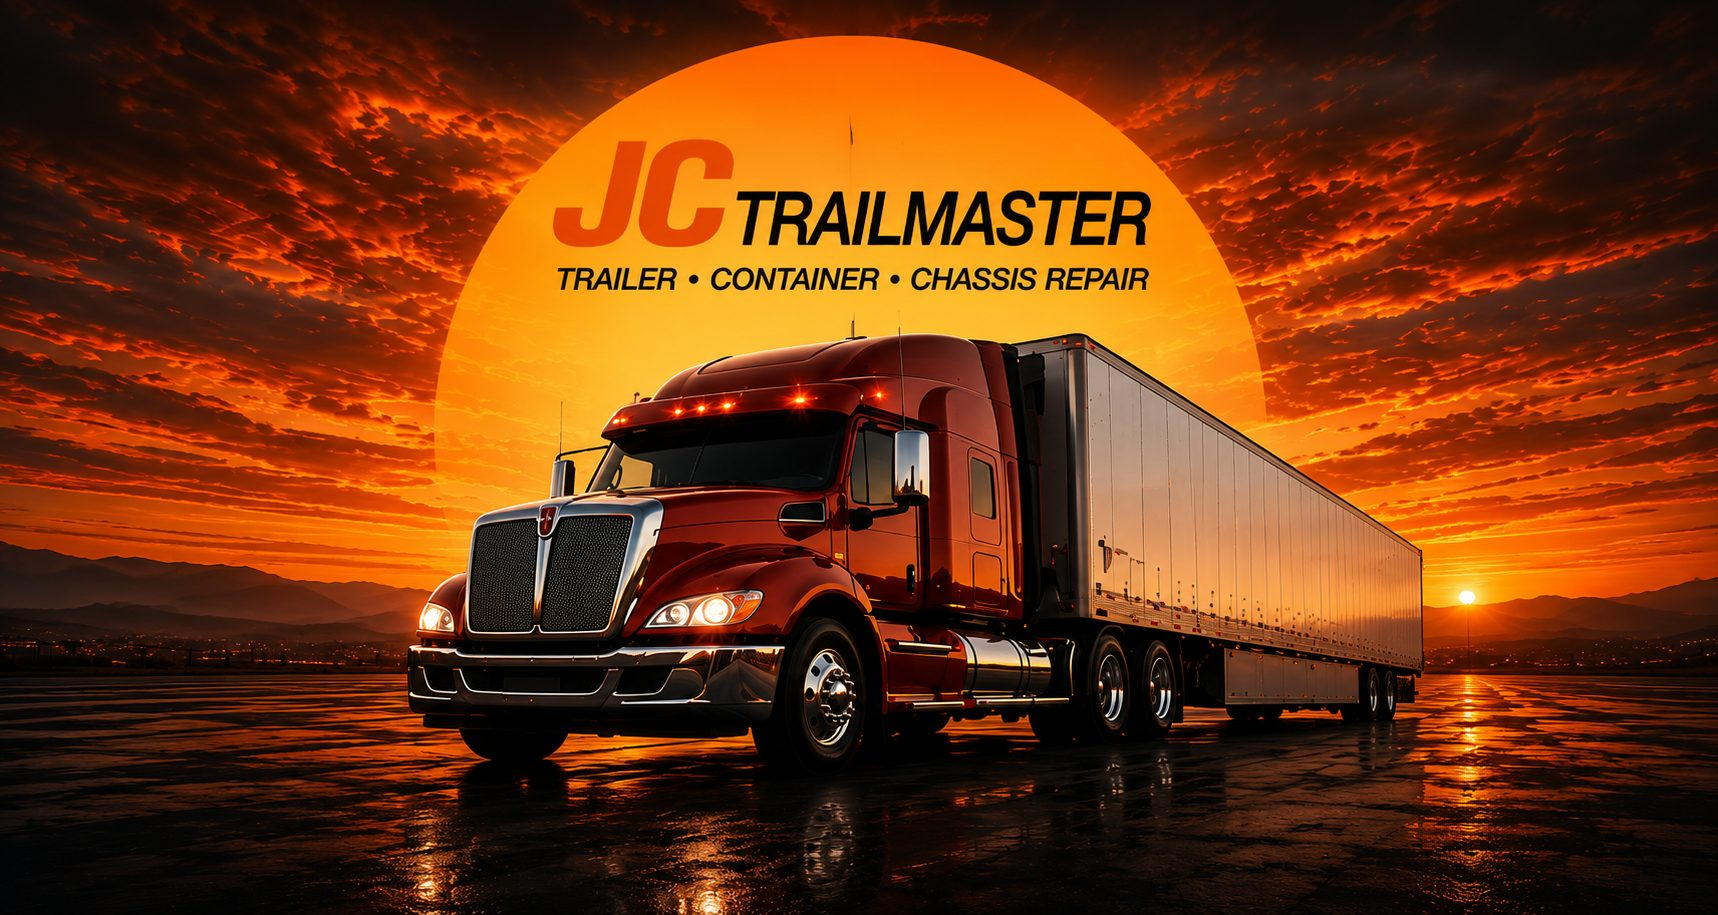
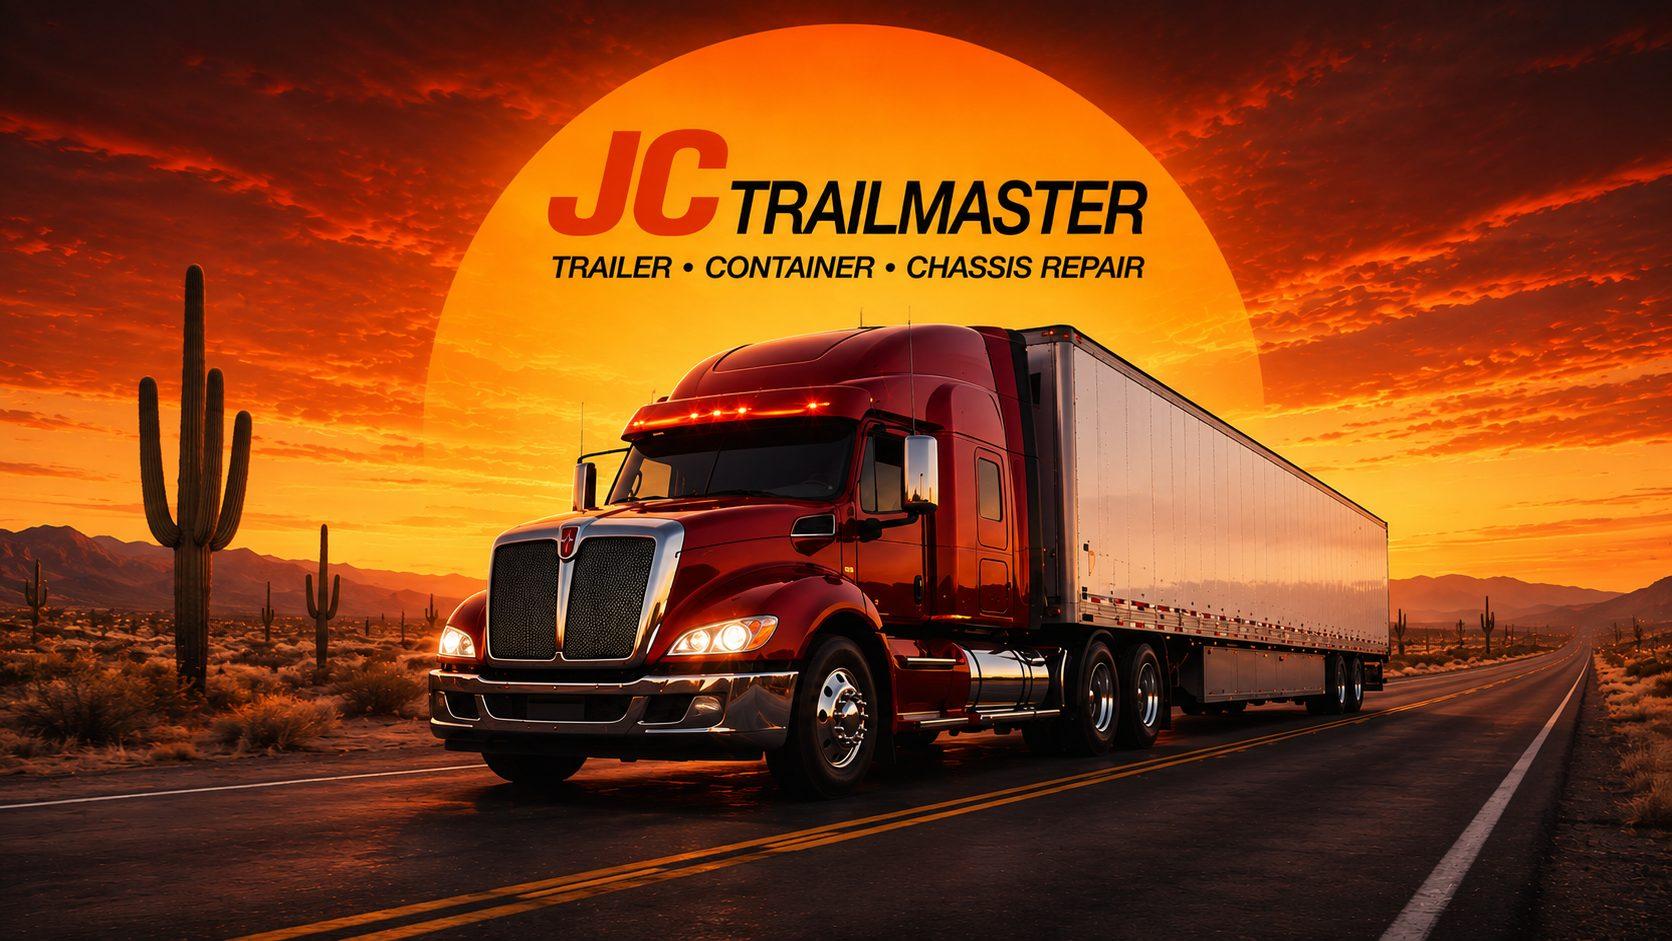
Update hero photo (desert highway scene) and bump badge JC size further
New hero: red Kenworth on a desert highway at sunset, JC Trailmaster
wordmark baked in -- replaces the previous shop-yard hero. Also increased
the badge JC font size again (24px->30px Header, 20px->24px Footer) per
feedback that it still read as too close in scale to TRAILMASTER; verified
both still fit inside their circles with no clipping.

diff --git a/src/components/Footer.jsx b/src/components/Footer.jsx
@@ -27,7 +27,7 @@ export default function Footer() {
         <div>
           <div className="flex items-center gap-2 mb-3">
             <span className="flex h-10 w-10 items-center justify-center rounded-full bg-jc-black">
-              <span className="font-brand italic text-jc-orange-deep text-xl leading-none">JC</span>
+              <span className="font-brand italic text-jc-orange-deep text-2xl leading-none">JC</span>
             </span>
             <span className="font-brand text-jc-orange-primary text-lg tracking-wide">
               TRAILMASTER

diff --git a/src/components/Header.jsx b/src/components/Header.jsx
@@ -19,7 +19,7 @@ export default function Header() {
       <div className="mx-auto flex max-w-7xl items-center justify-between gap-4 px-4 py-3 lg:px-8">
         <NavLink to="/" className="flex items-center gap-2 shrink-0">
           <span className="flex h-11 w-11 items-center justify-center rounded-full bg-jc-black">
-            <span className="font-brand italic text-jc-orange-deep text-2xl leading-none">JC</span>
+            <span className="font-brand italic text-jc-orange-deep text-3xl leading-none">JC</span>
           </span>
           <span className="leading-tight text-left">
             <span className="block font-brand text-jc-orange-primary text-xl tracking-wide">